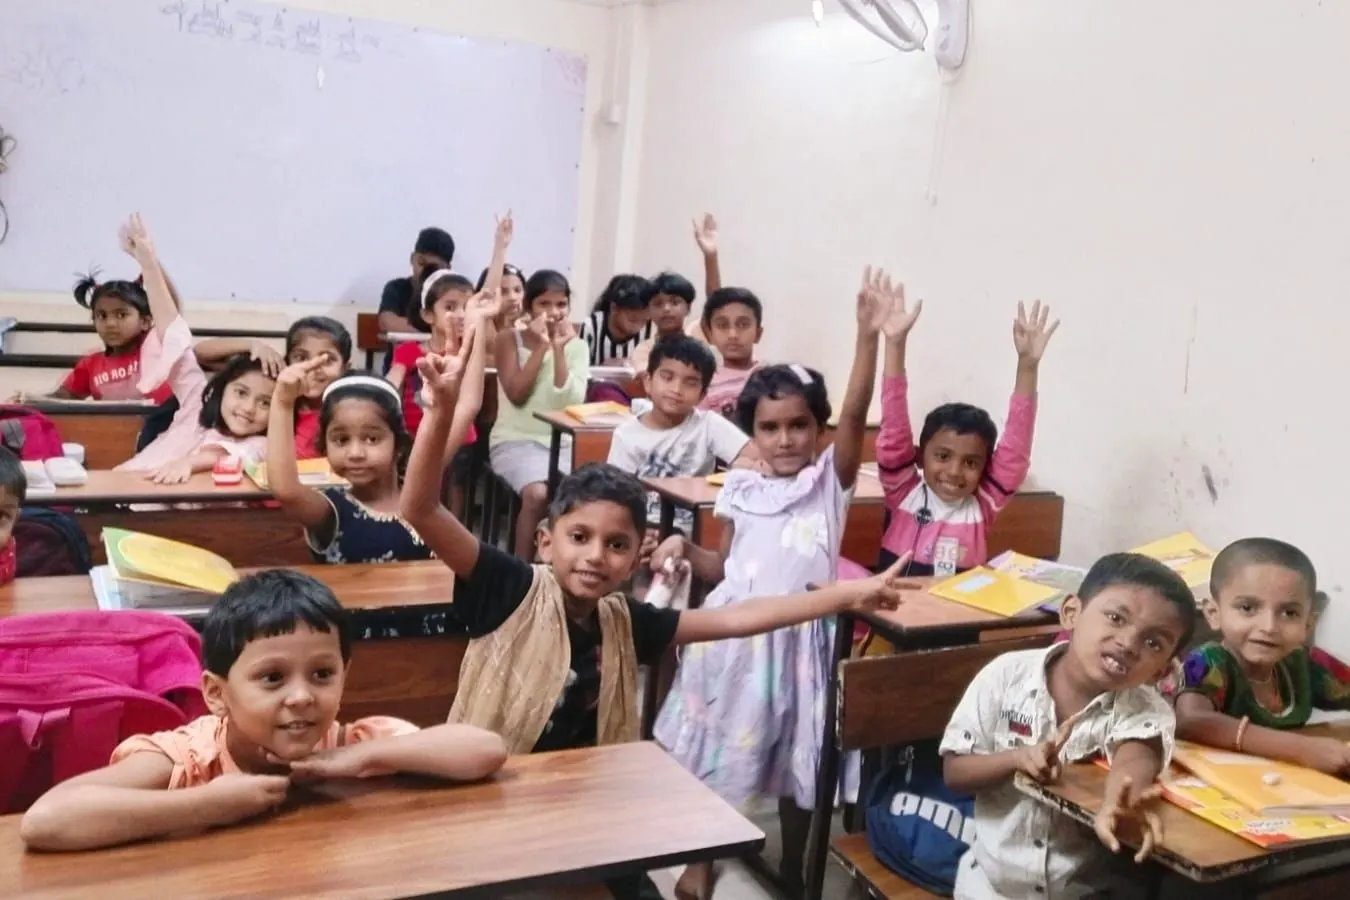
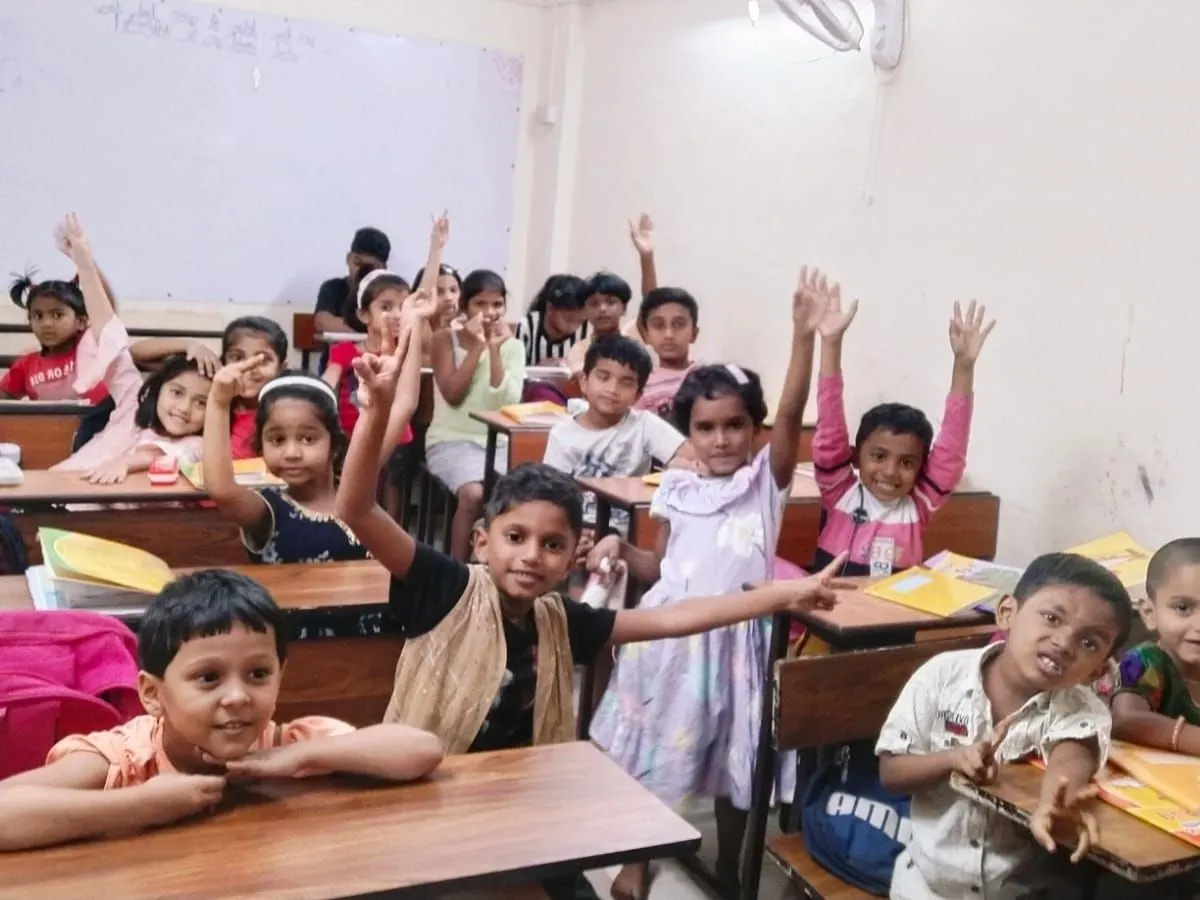
fix(photos): audience cards fill the photo column, CTA under the chips; focal points; H3/H4/H6 re-cropped 4:3
Two columns from 1280px (narrower boxes cut people at the sides); below that the photo sits on top at 3:2.
Every filled slot gets a focal point (objectPosition); H6 crop starts higher so all heads are in frame.

diff --git a/src/content/images.ts b/src/content/images.ts
@@ -11,6 +11,8 @@ export type Ratio = "4:5" | "4:3" | "3:2" | "1:1";
 export interface ImageSlotDef {
   description: string;
   ratio: Ratio;
+  /** CSS object-position for this slot's photo: where the faces are, so a cover crop never cuts heads. */
+  focus?: string;
   photo?: { src: string; alt: string; width?: number; height?: number; source?: string };
 }
 
@@ -18,11 +20,11 @@ const slots = {
   // Home
   H1: { description: "Trainer Revathi, warm, waist-up portrait, smiling at camera", ratio: "4:5" },
   H2: { description: "Child's hand on letter-sound cards or tracing letters (no faces needed)", ratio: "4:3" },
-  H3: { description: "Small group of young children in a phonics activity", ratio: "3:2" },
-  H4: { description: "Older primary student working with tutor at a desk", ratio: "3:2" },
+  H3: { description: "Small group of young children in a phonics activity", ratio: "3:2", focus: "50% 40%" },
+  H4: { description: "Older primary student working with tutor at a desk", ratio: "3:2", focus: "55% 25%" },
   H5: { description: "Adult learner reading or practising with Tr. Revathi", ratio: "3:2" },
-  H6: { description: "Tr. Revathi training a group of teachers", ratio: "3:2" },
-  H7: { description: "Candid: Tr. Revathi teaching a small group of children", ratio: "3:2" },
+  H6: { description: "Tr. Revathi training a group of teachers", ratio: "3:2", focus: "50% 20%" },
+  H7: { description: "Candid: Tr. Revathi teaching a small group of children", ratio: "3:2", focus: "50% 30%" },
   H8: { description: "Teachers teaser card (can reuse T1)", ratio: "3:2" },
   H9: { description: "Schools teaser card (can reuse S1)", ratio: "3:2" },
   H10: { description: "Gallery preview photo 1", ratio: "1:1" },
@@ -32,33 +34,31 @@ const slots = {
   H14: { description: "Gallery preview photo 5", ratio: "1:1" },
   H15: { description: "Gallery preview photo 6", ratio: "1:1" },
   // About
-  A1: { description: "Second portrait of Tr. Revathi in her classroom, three-quarter length", ratio: "4:5" },
+  A1: { description: "Second portrait of Tr. Revathi in her classroom, three-quarter length", ratio: "4:5", focus: "50% 15%" },
   A2: { description: "Jolly Phonics Trainer certificate (CPD College UK), flat, straight-on", ratio: "4:3" },
-  A3: { description: "ARPAN Trainer certificate, flat, straight-on", ratio: "4:3" },
   A4: { description: "Receiving the Business Entrepreneur Award (2023)", ratio: "3:2" },
   A5: { description: "Receiving the ROVEX Award – SHAKTI (2025)", ratio: "3:2" },
   A6: { description: "Receiving the Nation Builder Award (2025)", ratio: "3:2" },
   A7: { description: "Tr. Revathi at an Inner Wheel or Rotary event", ratio: "3:2" },
-  A8: { description: "Little moment: Tr. Revathi with one child, candid", ratio: "1:1" },
+  A8: { description: "Little moment: Tr. Revathi with one child, candid", ratio: "1:1", focus: "50% 30%" },
   A9: { description: "Receiving the Innovative Teaching Award (2026)", ratio: "3:2" },
   // Programs
-  P1: { description: "Children doing phonics sound actions or sound cards", ratio: "3:2" },
-  P2: { description: "Children writing sentences or doing a grammar worksheet", ratio: "3:2" },
+  P1: { description: "Children doing phonics sound actions or sound cards", ratio: "3:2", focus: "50% 30%" },
+  P2: { description: "Children writing sentences or doing a grammar worksheet", ratio: "3:2", focus: "50% 35%" },
   P3: { description: "Older student or adult reading aloud or speaking", ratio: "3:2" },
   P4: { description: "Close-up of pencil grip on a practice sheet (no faces needed)", ratio: "4:3" },
-  P5: { description: "Summer camp, drawing or art activity", ratio: "3:2" },
+  P5: { description: "Summer camp, drawing or art activity", ratio: "3:2", focus: "50% 50%" },
   // Coaching
-  C1: { description: "Tutor helping a primary-school student at a desk", ratio: "3:2" },
-  C2: { description: "Small group studying together, notebooks open", ratio: "3:2" },
+  C1: { description: "Tutor helping a primary-school student at a desk", ratio: "3:2", focus: "60% 30%" },
+  C2: { description: "Small group studying together, notebooks open", ratio: "3:2", focus: "50% 35%" },
   // Teacher training
-  T1: { description: "Tr. Revathi leading a teacher-training session", ratio: "3:2" },
+  T1: { description: "Tr. Revathi leading a teacher-training session", ratio: "3:2", focus: "50% 25%" },
   T2: { description: "Teachers practising phonics activities or games", ratio: "3:2" },
   T3: { description: "Teachers doing a hands-on early-childhood activity", ratio: "3:2" },
   T4: { description: "Montessori-style learning materials on a table (no faces needed)", ratio: "4:3" },
-  T5: { description: "Optional, adults only: Tr. Revathi speaking calmly to educators or parents", ratio: "3:2" },
   // For schools
-  S1: { description: "Phonics workshop in a school classroom or hall", ratio: "3:2" },
-  S2: { description: "Tr. Revathi with a school's teachers", ratio: "3:2" },
+  S1: { description: "Phonics workshop in a school classroom or hall", ratio: "3:2", focus: "50% 30%" },
+  S2: { description: "Tr. Revathi with a school's teachers", ratio: "3:2", focus: "40% 25%" },
   // Branches
   B1: { description: "Ambernath East — Shiv Basav Nagar: building entrance or signage (Om Dubey Dham, above Shobha Hospital)", ratio: "3:2" },
   B2: { description: "Ambernath West — Chinchpada: Navare Residency entrance or signage", ratio: "3:2" },

diff --git a/src/components/home/WhoIsItFor.tsx b/src/components/home/WhoIsItFor.tsx
@@ -69,24 +69,27 @@ interface CardProps {
   chips: readonly string[];
 }
 
-/** What they would learn on the left, one clear next step on the right: ask on WhatsApp with this audience’s own message. */
+/**
+ * Photo | title, text, chips, then the next step (WhatsApp with this audience's own message, and the page link).
+ * Wide screens (1280px+): the photo fills its column's full height (cover, focal point from images.ts). Narrower (phones, tablets, small laptops, where a near-square photo box would cut off people at the sides): on top at 3:2.
+ */
 function AudienceCard({ title, text, href, linkLabel, slot, message, chips }: CardProps) {
   const photo = Boolean(imageSlots[slot].photo);
   return (
-    <article className={`grid overflow-hidden rounded-[var(--radius-panel)] bg-surface ${photo ? "md:grid-cols-[minmax(0,2fr)_minmax(0,3fr)]" : "md:grid-cols-[minmax(0,3fr)_minmax(0,2fr)]"}`}>
-      {photo && <ImageSlot id={slot} sizes="(min-width: 768px) 40vw, 100vw" className="md:h-full md:!aspect-auto" />}
+    <article className={`grid overflow-hidden rounded-[var(--radius-panel)] bg-surface ${photo ? "xl:grid-cols-[minmax(0,2fr)_minmax(0,3fr)]" : ""}`}>
+      {photo && <ImageSlot id={slot} sizes="(min-width: 1280px) 40vw, 100vw" className="xl:h-full xl:min-h-[24rem] xl:!aspect-auto" />}
       <div className="flex flex-col gap-4 p-6 md:p-10">
         <h3 className="max-w-[18ch] font-display text-[clamp(1.75rem,1.3rem+1.8vw,2.75rem)] leading-none font-bold">{title}</h3>
         <p className="max-w-[46ch] text-lead">{text}</p>
         <ChipList items={chips} tone="paper" />
-      </div>
-      <div className="grid content-center justify-items-start gap-4 border-t border-ink/10 p-6 md:border-t-0 md:border-l md:p-10">
-        <WhatsAppLink message={message} variant="primary" className="w-full sm:w-auto">
-          {labels.home.who.ask}
-        </WhatsAppLink>
-        <Link href={href} className="link-u">
-          {linkLabel}
-        </Link>
+        <div className="mt-2 flex flex-wrap items-center gap-x-6 gap-y-4 border-t border-ink/10 pt-6">
+          <WhatsAppLink message={message} variant="primary" className="w-full sm:w-auto">
+            {labels.home.who.ask}
+          </WhatsAppLink>
+          <Link href={href} className="link-u">
+            {linkLabel}
+          </Link>
+        </div>
       </div>
     </article>
   );

diff --git a/src/content/photos.generated.ts b/src/content/photos.generated.ts
@@ -43,7 +43,7 @@ export const photoManifest: { slots: Record<string, PhotoFile>; gallery: (PhotoF
     "H3": {
       "src": "/images/home/H3.webp",
       "alt": "A class of young children at their desks, smiling and raising their hands",
-      "width": 1350,
+      "width": 1200,
       "height": 900,
       "source": "WA0064"
     },
@@ -51,14 +51,14 @@ export const photoManifest: { slots: Record<string, PhotoFile>; gallery: (PhotoF
       "src": "/images/home/H4.webp",
       "alt": "Trainer Revathi going through a workbook at a desk with a small group of primary-school students",
       "width": 1200,
-      "height": 800,
+      "height": 900,
       "source": "WA0021"
     },
     "H6": {
       "src": "/images/home/H6.webp",
       "alt": "Four women at a teacher-training certificate presentation, one holding a certificate",
       "width": 960,
-      "height": 640,
+      "height": 720,
       "source": "20260620-WA0008"
     },
     "H7": {

diff --git a/src/components/blocks/ImageSlot.tsx b/src/components/blocks/ImageSlot.tsx
@@ -24,7 +24,7 @@ export function ImageSlot({ id, sizes, preload = false, className = "" }: Props)
   if (slot.photo) {
     return (
       <div className={frame}>
-        <Image src={slot.photo.src} alt={slot.photo.alt} fill sizes={sizes} preload={preload} className="object-cover" />
+        <Image src={slot.photo.src} alt={slot.photo.alt} fill sizes={sizes} preload={preload} className="object-cover" style={slot.focus ? { objectPosition: slot.focus } : undefined} />
       </div>
     );
   }
